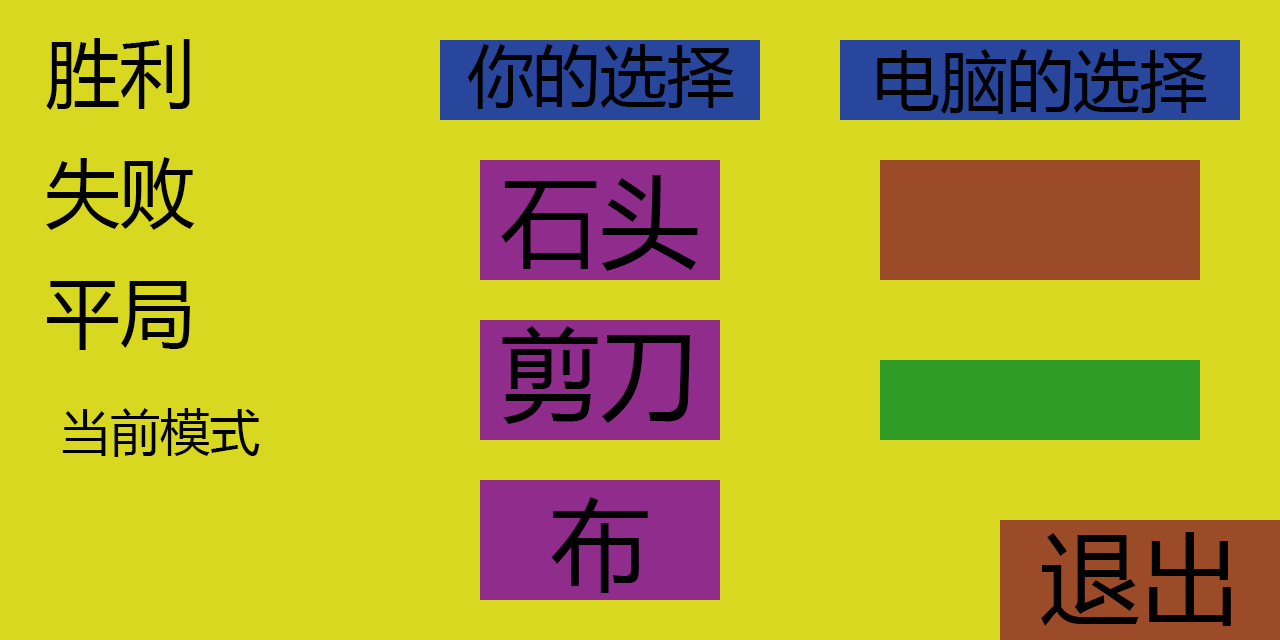
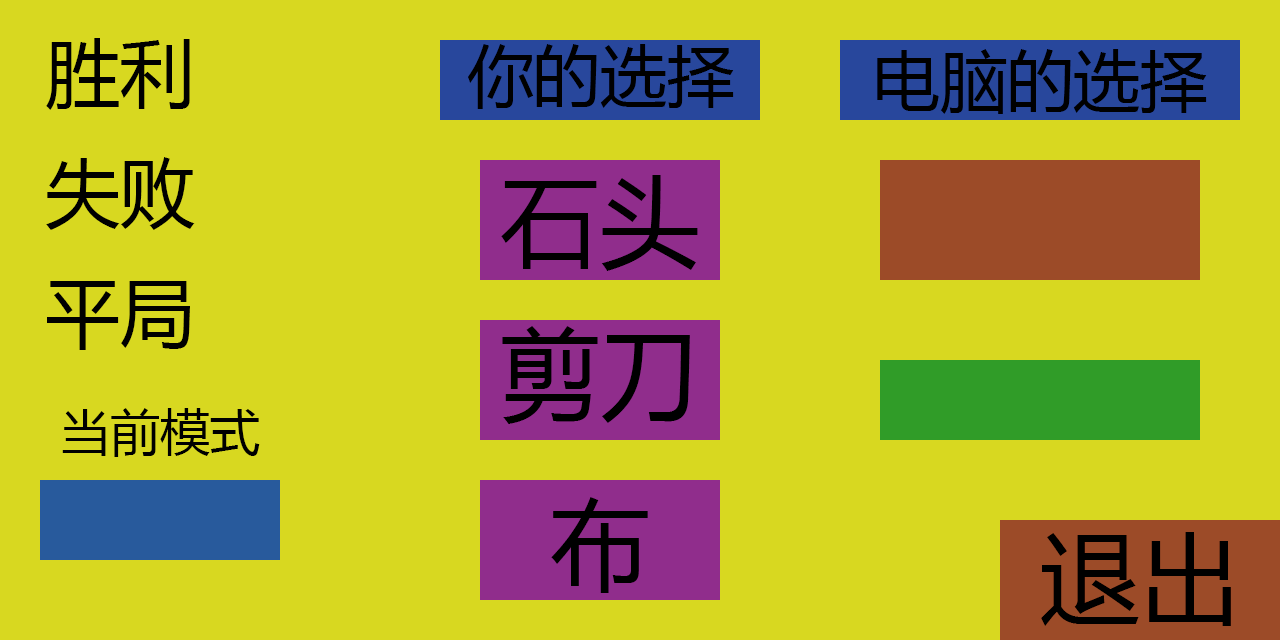
完成UI设计

Changed region(s): [[0.0312, 0.75, 0.2188, 0.875]]

diff --git a/UI.cpp b/UI.cpp
@@ -20,7 +20,7 @@ int open_msg(mouse_msg& msg)
 	{
 		if (msg.y <= 280 && msg.y >= 160)
 		{
-			return 0;
+			return INHERIT;
 		}
 		if (msg.y <= 480 && msg.y >= 360)
 		{
@@ -59,7 +59,7 @@ void result(Player P_value, Player Cp_value)
 	FRONT_OUTPUT_SET_NUMBER;
 	setfillcolor(EGERGB(216, 216, 32));
 	setbkcolor(EGERGB(216, 216, 32));
-	last_result += Cp_value.get_value();
+	last_result = Cp_value.get_value();
 	if (P_value == Cp_value)
 	{
 		bar(240, 280, 400, 360);
@@ -128,12 +128,18 @@ void Print_Computer_Value(Player& Computer_value)
 
 void Pattern_init()
 {
-	setfont(-60, 0, _T("微软雅黑"));
+	setfont(-50, 0, _T("微软雅黑"));
+	setbkcolor(EGERGB(40, 90, 156));
 	switch (type)
 	{
 	case RANDOM:
 	{
 		xyprintf(60, 480, "随机模式");
+		break;
+	}
+	case INHERIT:
+	{
+		xyprintf(60, 480, "继承模式");
 		break;
 	}
 	}

diff --git a/class.cpp b/class.cpp
@@ -37,5 +37,17 @@ int Random::play()
 
 int Inherit::play()
 {
-	return 0;
+	if (last_result / 10 == 3)
+	{
+		last_win_value = last_result % 10;
+	}
+	else
+	{
+		last_win_value = rand() % 3 + 1;
+	}
+	if(last_win_value == UNDEDINED_PLAY)
+		value = rand() % 3 + 1;
+	else
+		value = last_win_value;
+	return value;
 }

diff --git a/play.cpp b/play.cpp
@@ -6,10 +6,19 @@ void play(mouse_msg& msg)
 	switch (type)
 	{
 	case RANDOM:
+	{
 		Random v;
 		v.play();
 		Computer_value = v;
 		break;
+	}
+	case INHERIT:
+	{
+		Inherit v;
+		v.play();
+		Computer_value = v;
+		break;
+	}
 	}
 	Print_Computer_Value(Computer_value);
 	result(Player_value, Computer_value);

diff --git a/main.cpp b/main.cpp
@@ -4,6 +4,7 @@ int equip_value = 0;
 int win_value = 0;
 int lose_value = 0;
 int last_result = 0;
+int Inherit::last_win_value = 0;
 int main()
 {
 	srand(unsigned(time(NULL)));

diff --git a/head.h b/head.h
@@ -15,7 +15,8 @@ enum Play_Type
 enum Open_Type
 {
 	UNDEDINED_OPEN,
-	RANDOM
+	RANDOM,
+	INHERIT
 };
 
 extern int last_result;

diff --git a/class.h b/class.h
@@ -56,7 +56,6 @@ namespace CP
 	{
 	public:
 		virtual int play();
-	private:
 		static int last_win_value;
 	};
 }
